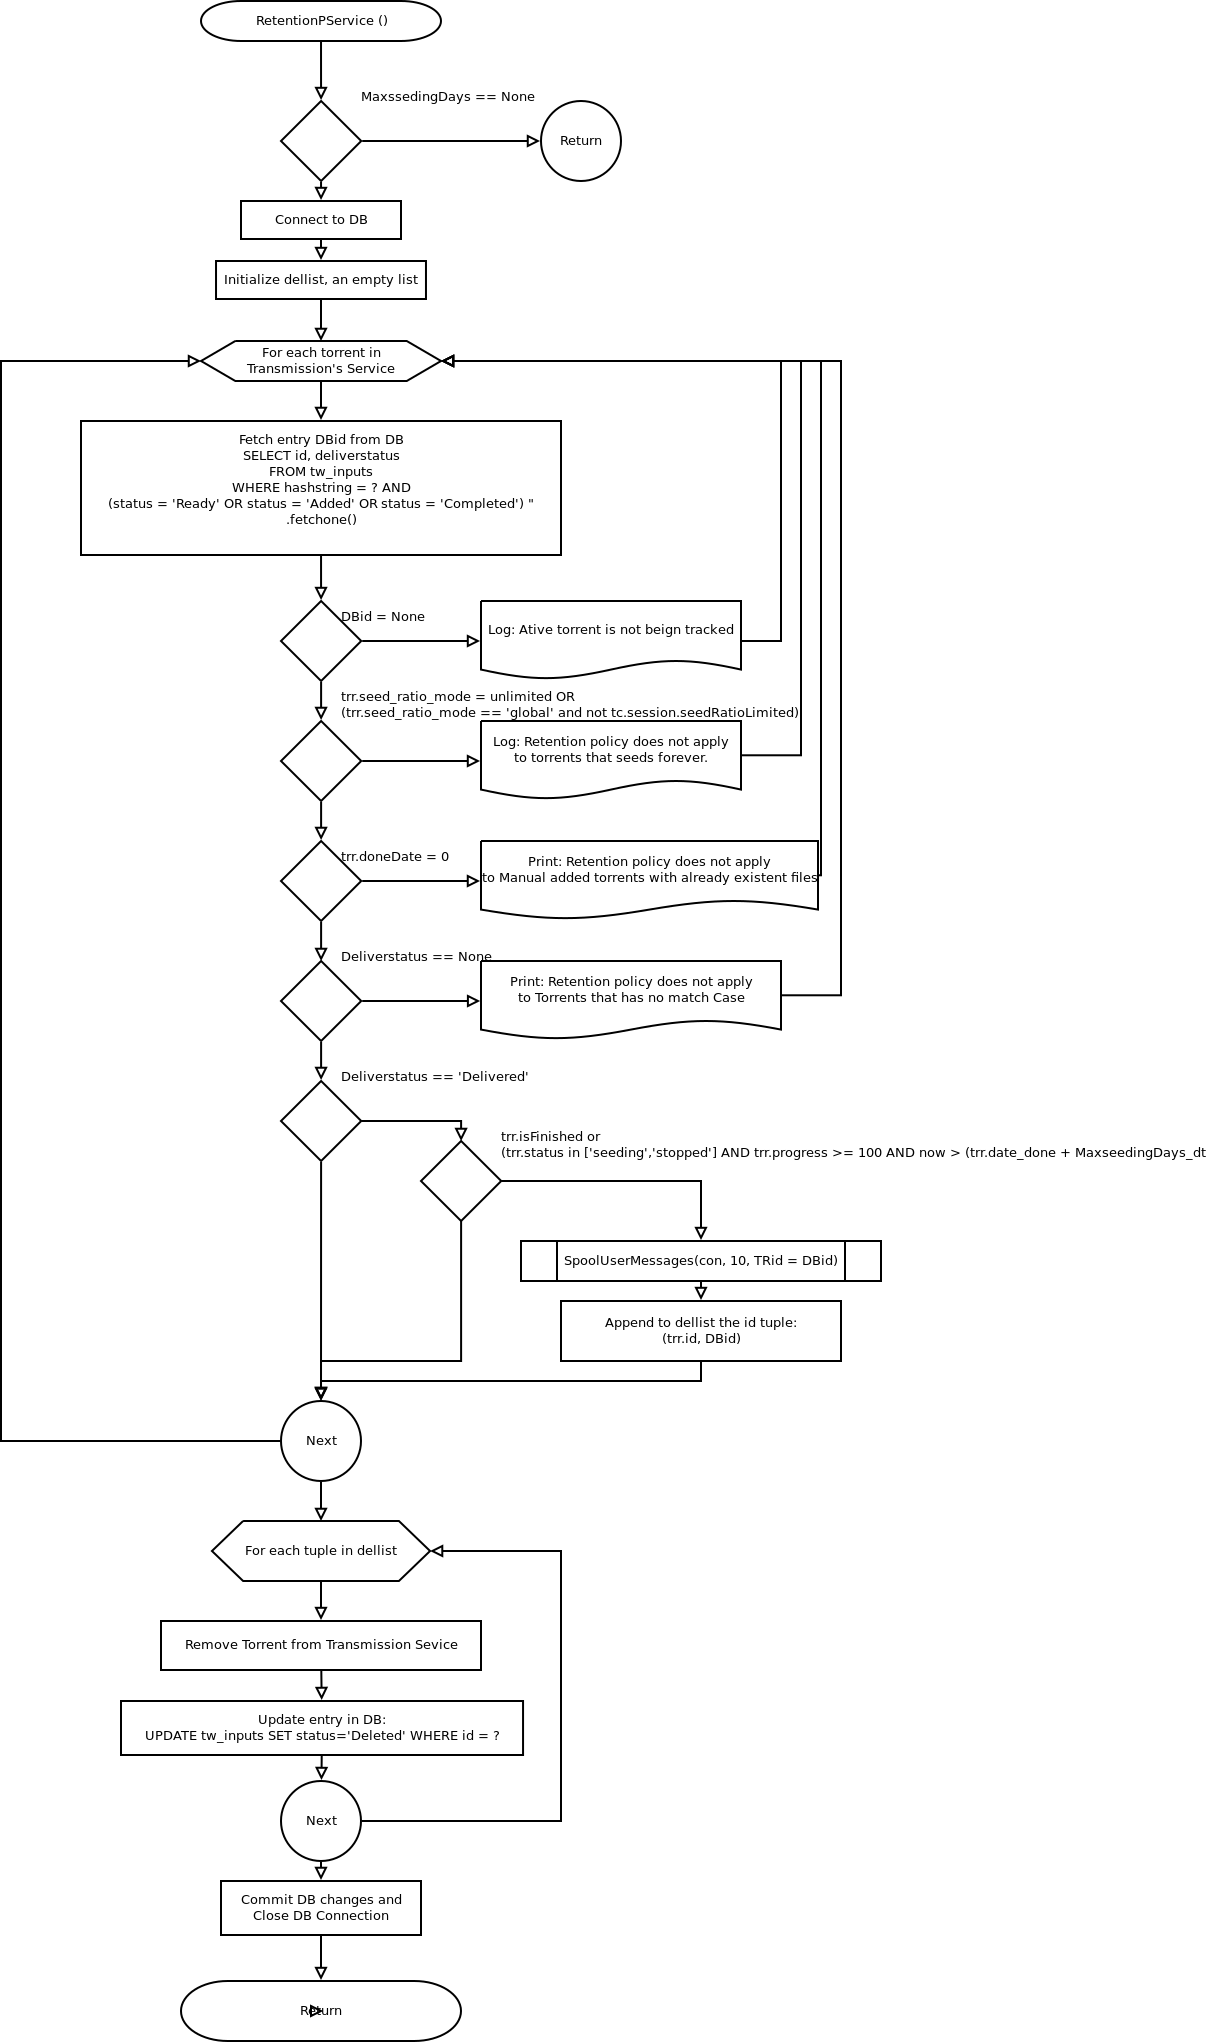
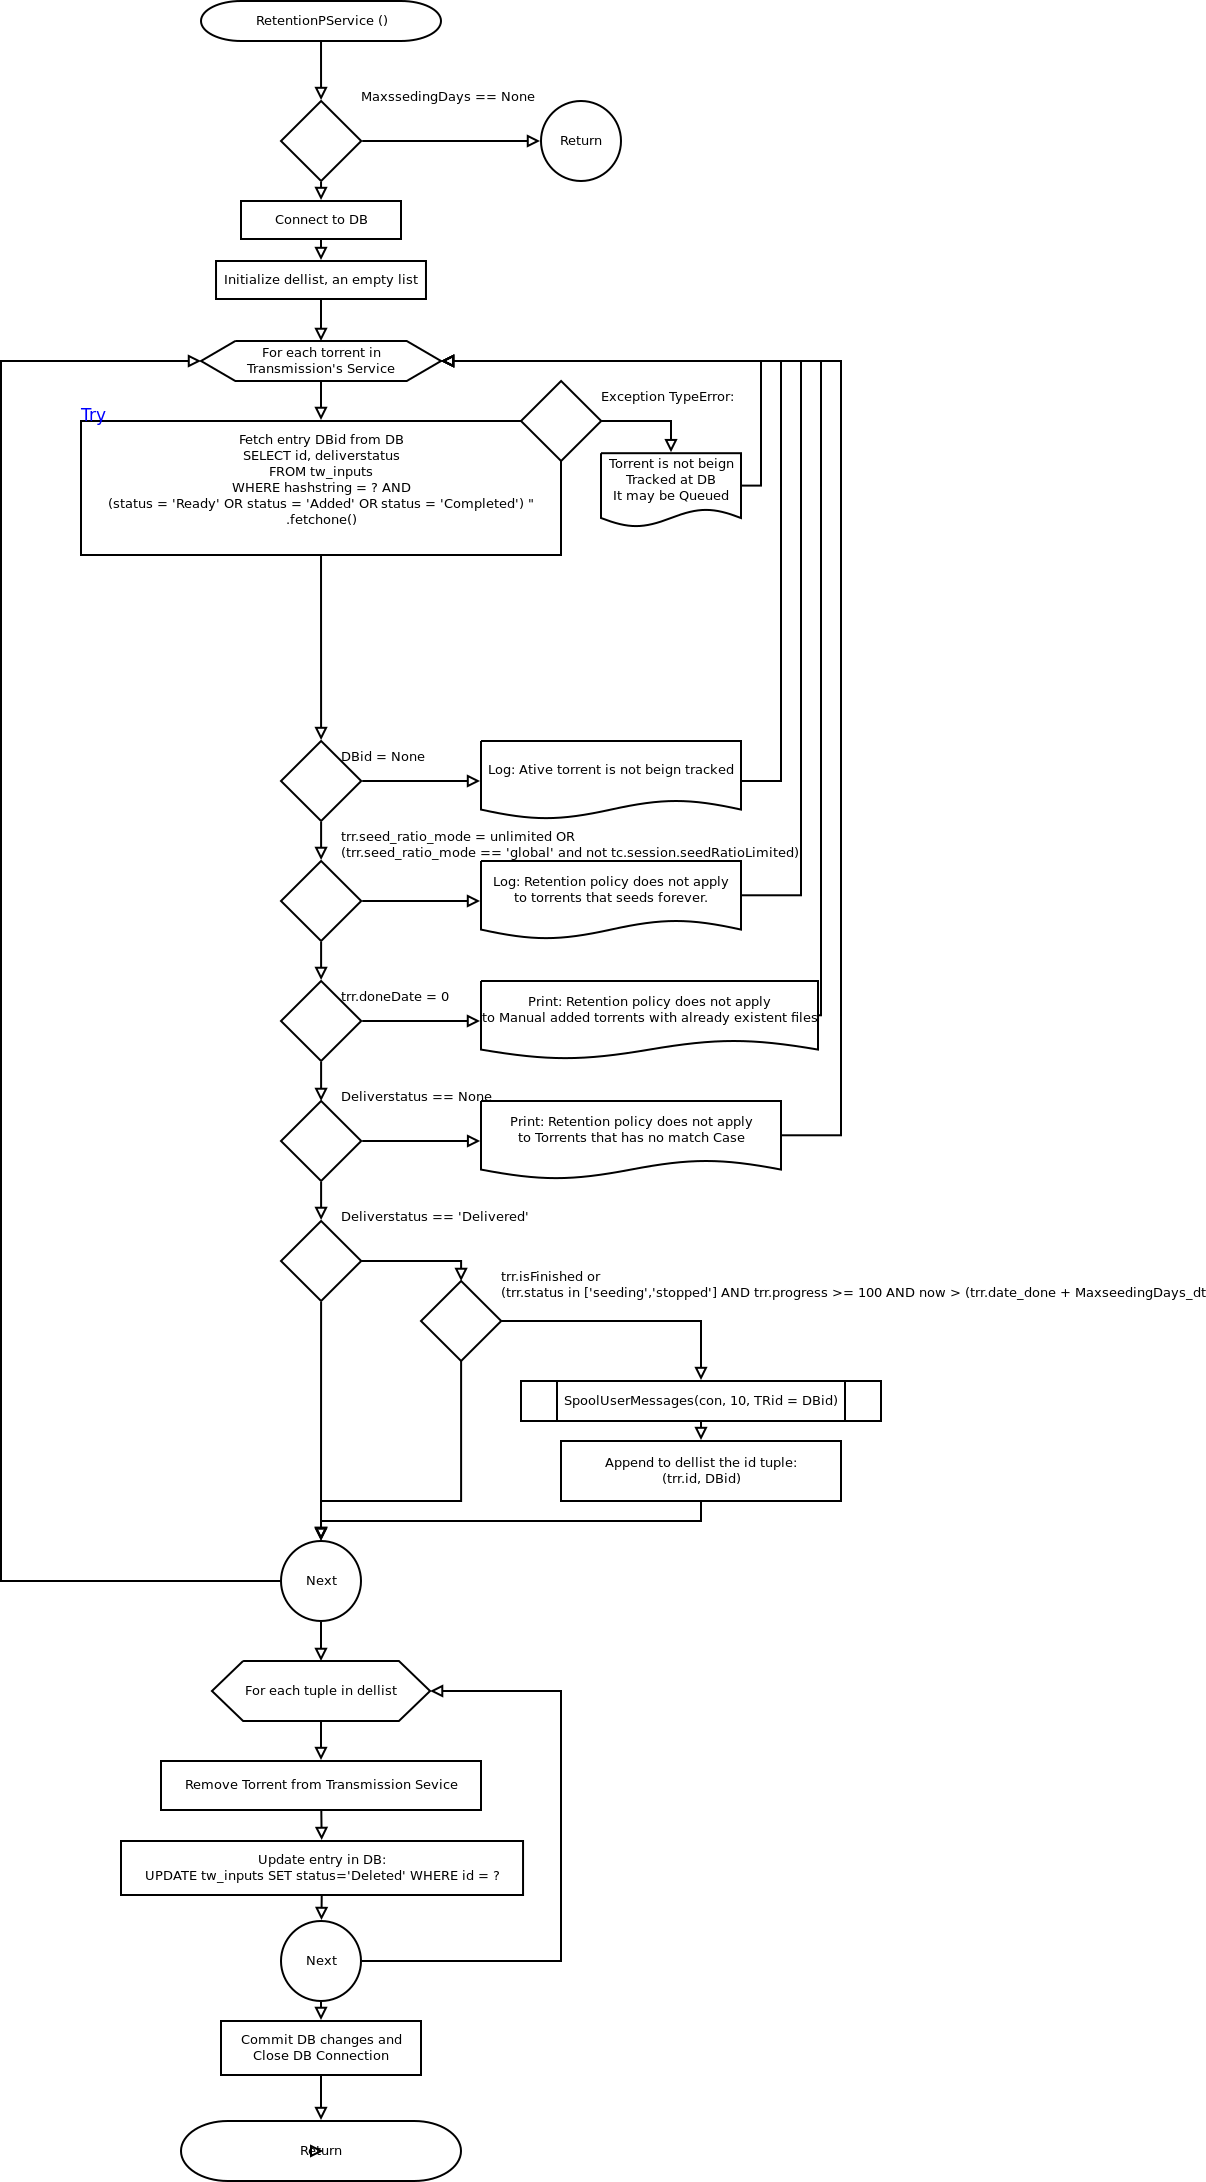
Fixed bug at retention policy function, Manually torrents added and inmediately queued are not beign traked by Gideon yet

diff --git a/Gideon.py b/Gideon.py
@@ -1964,7 +1964,13 @@ def RetentionPService(tc):
 	cursor = con.cursor()
 	dellist = ['',]
 	for trr in tc.get_torrents():
-		DBid, Deliverstatus = cursor.execute ("SELECT id, deliverstatus from tw_inputs WHERE hashstring = ? and (status = 'Ready' or status = 'Added' or status = 'Completed') ", (trr.hashString,)).fetchone()
+		try:
+			DBid, Deliverstatus = cursor.execute ("SELECT id, deliverstatus from tw_inputs WHERE hashstring = ? and (status = 'Ready' or status = 'Added' or status = 'Completed') ", (trr.hashString,)).fetchone()
+		except TypeError:
+			msg = 'This torrent is not beign tracked at Database, it may be queued: %s,%s'%(trr.hashString, trr.name)
+			logging.warning (msg)
+			print (msg)
+			continue
 		if DBid == None:
 			logging.warning('Active torrent is not being tracked on DB: %s'%trr.name)
 			continue
